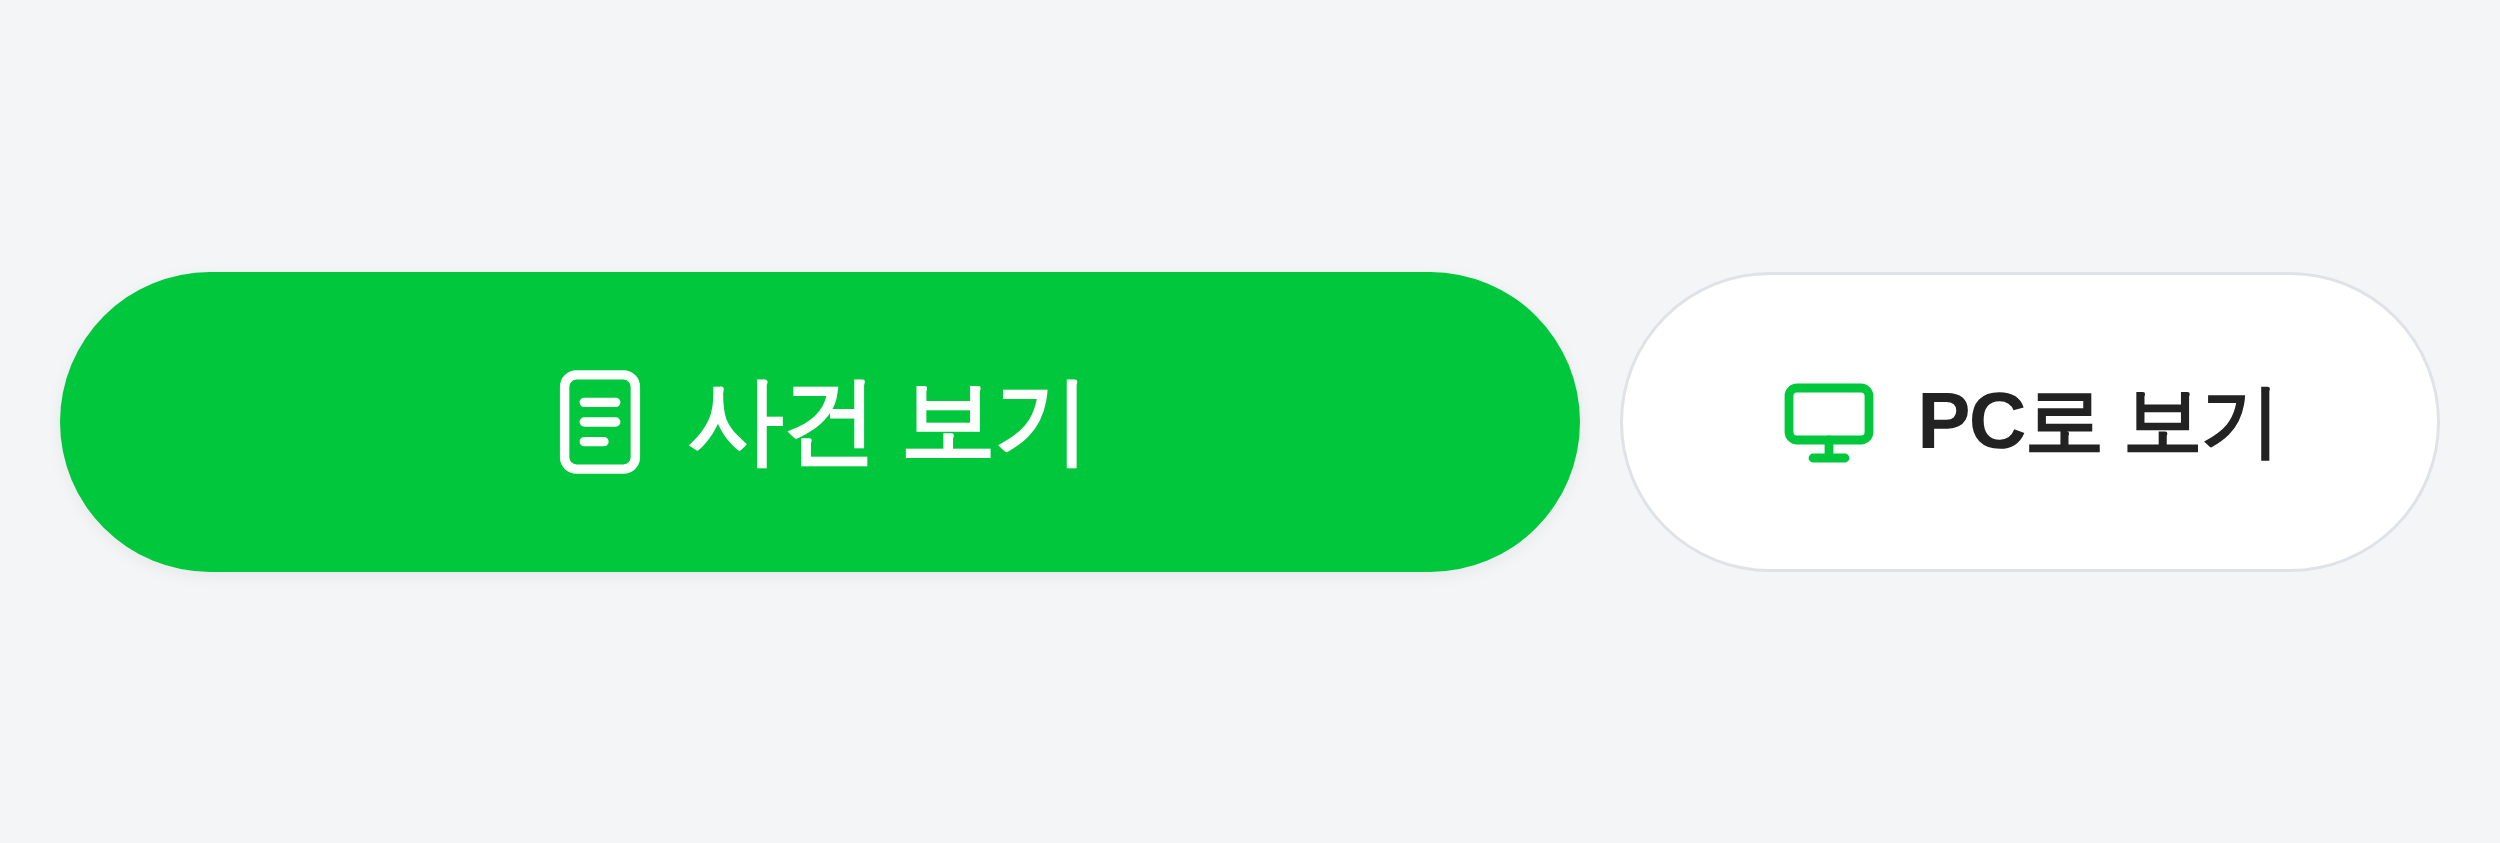
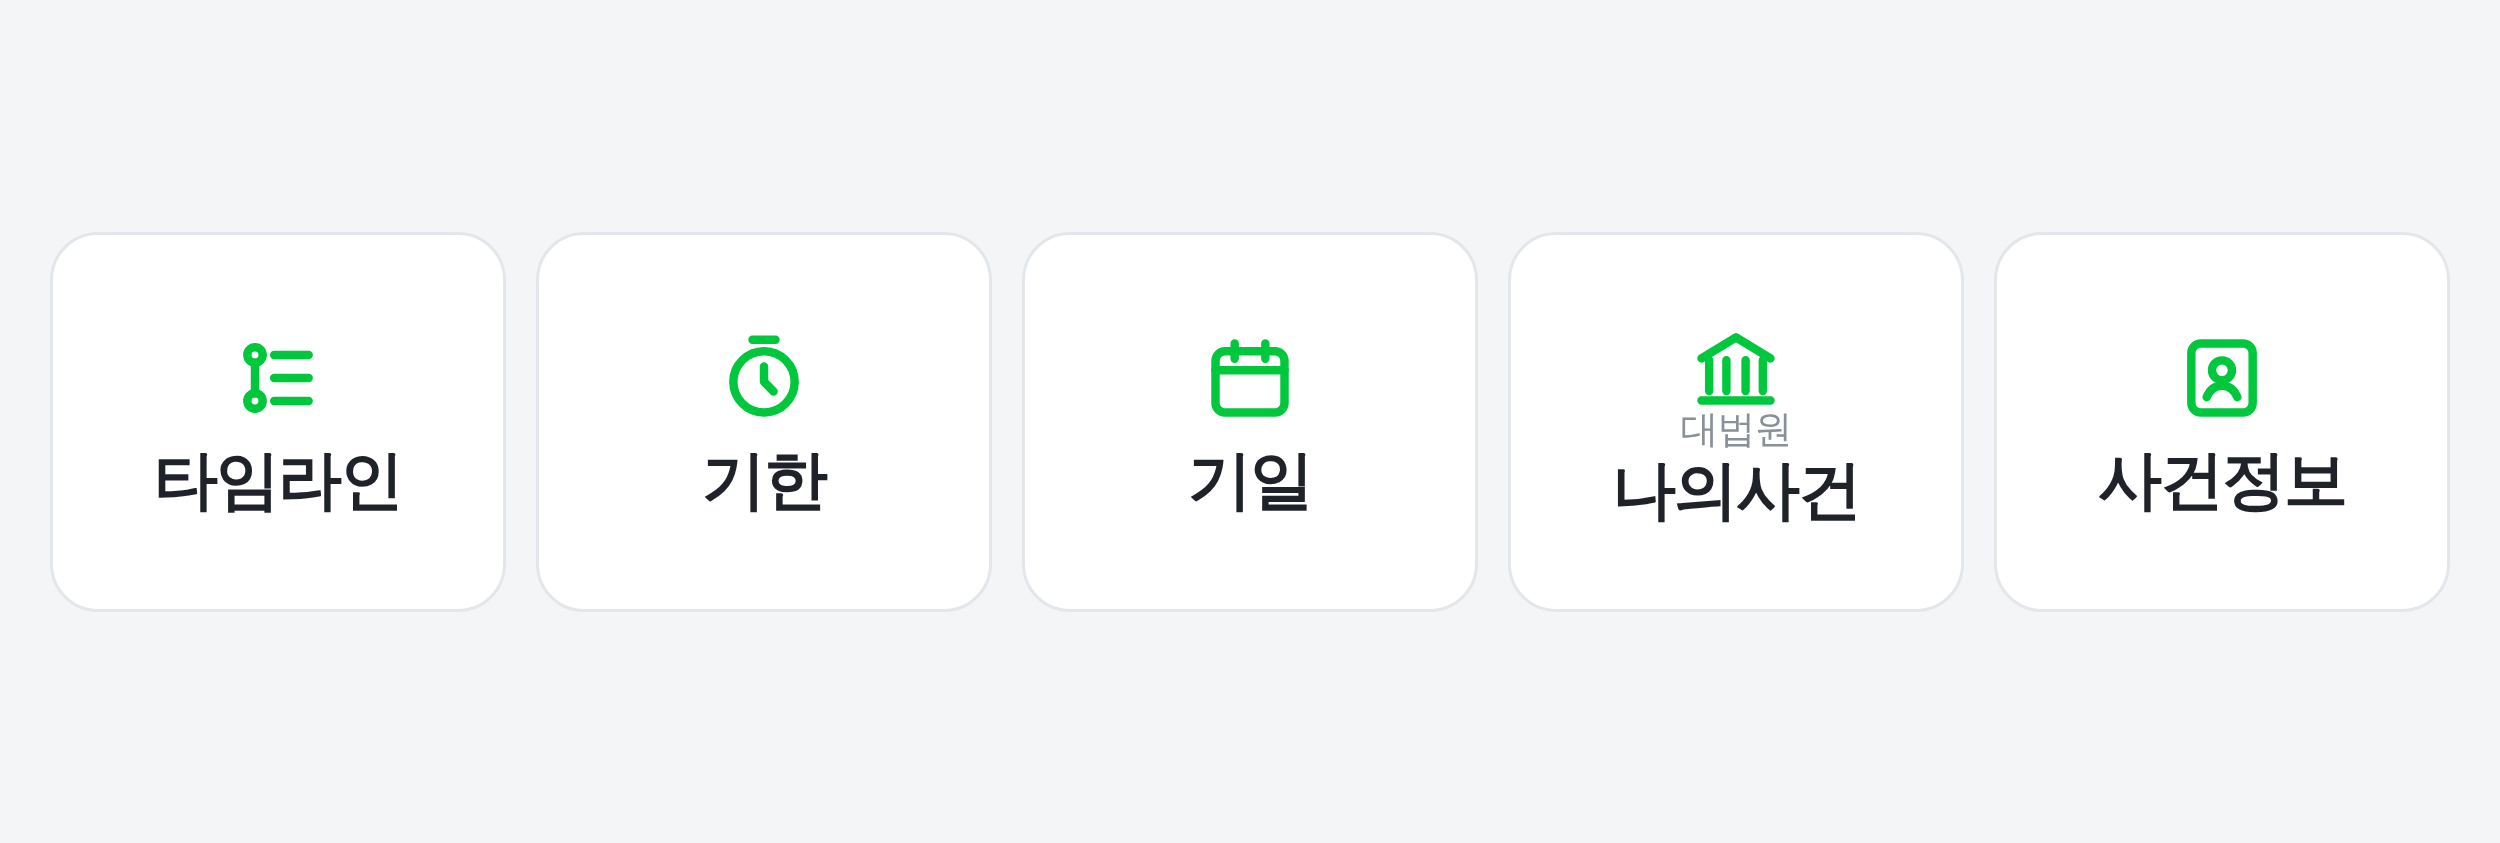
운영 봇 메뉴 5칸(타임라인/기한/기일/대법원 나의사건/사건정보), 화면 탭 '진행내용'→'나의사건'
Claude-Session: https://claude.ai/code/session_01559ZhRGnAMHyFaf9QKzrAt

diff --git a/woff/case.html b/woff/case.html
@@ -145,7 +145,7 @@ main{max-width:880px;margin:0 auto;padding:12px 16px 32px}
       <button data-v="timeline">타임라인</button>
       <button data-v="deadline">기한</button>
       <button data-v="hearing">기일</button>
-      <button data-v="progress">진행내용</button>
+      <button data-v="progress">나의사건</button>
       <button data-v="info">사건정보</button>
     </nav>
   </div>
@@ -347,12 +347,12 @@ var GET_CMD = 'mkdir %TEMP%\\jshelper & cd /d %TEMP%\\jshelper & for %f in (jeon
 function showSetup(){
   $('#nav').hidden=true; $('#switch').hidden=true;
   $('#title').textContent='PC 도우미 연결';
-  $('#sub').textContent='사건방 메뉴 “PC에 사건 띄우기”를 이 PC에서 쓰려면 한 번만 하면 됩니다.';
+  $('#sub').textContent='PC 웍스 사건방 메뉴를 누르면 그 방 사건이 바로 열리게 하려면, 이 PC에 한 번만 하면 됩니다.';
   $('#main').innerHTML='<div class="card setup"><ol>'+
     '<li>윈도우 시작 버튼 → <b>cmd</b> 입력 → <b>명령 프롬프트</b>를 엽니다.</li>'+
     '<li>아래 명령을 복사해 명령 프롬프트에 붙여 넣고 Enter를 누릅니다.<button class="code" id="cmd">'+esc(GET_CMD)+'</button><button class="copy" data-copy="cmd">명령 복사</button></li>'+
     '<li>“토큰”을 물으면 아래 연결 코드를 붙여 넣고 Enter를 누릅니다.<div id="tokbox"><button class="primary" id="mktok" style="margin-top:8px">연결 코드 받기</button></div></li>'+
-    '<li>“설치 끝”이 나오면 완료입니다. 이제 사건방에서 <b>💻 PC에 사건 띄우기</b>를 누르면 이 PC에 사건 화면이 열립니다.</li>'+
+    '<li>“설치 끝”이 나오면 완료입니다. 이제 PC 웍스 사건방 ≡ 메뉴(타임라인·기한·기일·나의사건·사건정보)를 누르면 그 방 사건이 바로 열립니다. 웍스 창은 최소화하지 마세요.</li>'+
     '</ol></div><div class="foot">연결 코드는 이 화면에서 한 번만 보입니다. 메신저나 채팅에 붙이지 마세요.</div>';
 }
 function copyText(t){ (navigator.clipboard ? navigator.clipboard.writeText(t) : Promise.reject()).then(function(){ toast('복사했습니다'); }).catch(function(){ toast('글자를 길게 눌러 직접 복사해 주세요'); }); }

diff --git a/tools/works/set_prod_richmenu.py b/tools/works/set_prod_richmenu.py
@@ -1,9 +1,9 @@
 # -*- coding: utf-8 -*-
 """운영 봇(실제 사건방에 들어가 있는 봇)에 사건 화면 리치 메뉴를 거는 스크립트 (사무실 PC에서 실행).
 
-메뉴 두 칸 (방에 글이 남지 않음):
-  [📱 사건 보기] uri      → 휴대폰: 그 방 사건 화면이 웍스 안에서 열림 (넓은 칸)
-  [💻 PC로 보기] postback → 누른 사람 PC의 '정서 사건 도우미'가 브라우저에 그 방 사건 화면을 엶
+메뉴 다섯 칸 (방에 글이 남지 않음): 타임라인 / 기한 / 기일 / 대법원 나의사건 / 사건정보
+  누르면 그 방 사건 화면이 해당 탭으로 바로 열림.
+  휴대폰: 웍스가 방을 알려 줌. PC: 브라우저로 열리고 'PC 도우미'(v2 이상)가 웍스 창 방 제목을 읽어 방을 찾음
   웍스는 봇마다 메뉴 한 벌이라 휴대폰·PC에 같은 메뉴가 뜸
 
 사용법 (명령 프롬프트, 이 파일·set_test_menu.py·richmenu_prod.png 가 같은 폴더):
@@ -35,11 +35,14 @@ BODY = {
     "richmenuName": NAME,
     "size": {"width": 2500, "height": 843},
     "areas": [
-        # PC 앱은 그림 대신 이 이름(label)을 ≡ 목록으로 보여 줌 → PC에서 쓰는 칸을 맨 위에, 이름을 분명하게
-        {"bounds": {"x": 1640, "y": 0, "width": 860, "height": 843},
-         "action": {"type": "postback", "label": "이 방 사건정보 보기", "data": "room-case"}},
-        {"bounds": {"x": 0, "y": 0, "width": 1640, "height": 843},
-         "action": {"type": "uri", "label": "휴대폰에서 보기", "uri": WOFF + "?view=timeline"}},
+        # 다섯 칸 모두 uri: 휴대폰은 웍스가 방을 알려 주고, PC는 'PC 도우미'가 웍스 창 방 제목을 읽어 그 방을 찾음
+        # PC 앱은 그림 대신 이 이름(label)을 ≡ 목록으로 보여 줌
+        {"bounds": {"x": 500 * i, "y": 0, "width": 500, "height": 843},
+         "action": {"type": "uri", "label": label, "uri": WOFF + "?view=" + view}}
+        for i, (label, view) in enumerate([
+            ("타임라인", "timeline"), ("기한", "deadline"), ("기일", "hearing"),
+            ("대법원 나의사건", "progress"), ("사건정보", "info"),
+        ])
     ],
 }
 
